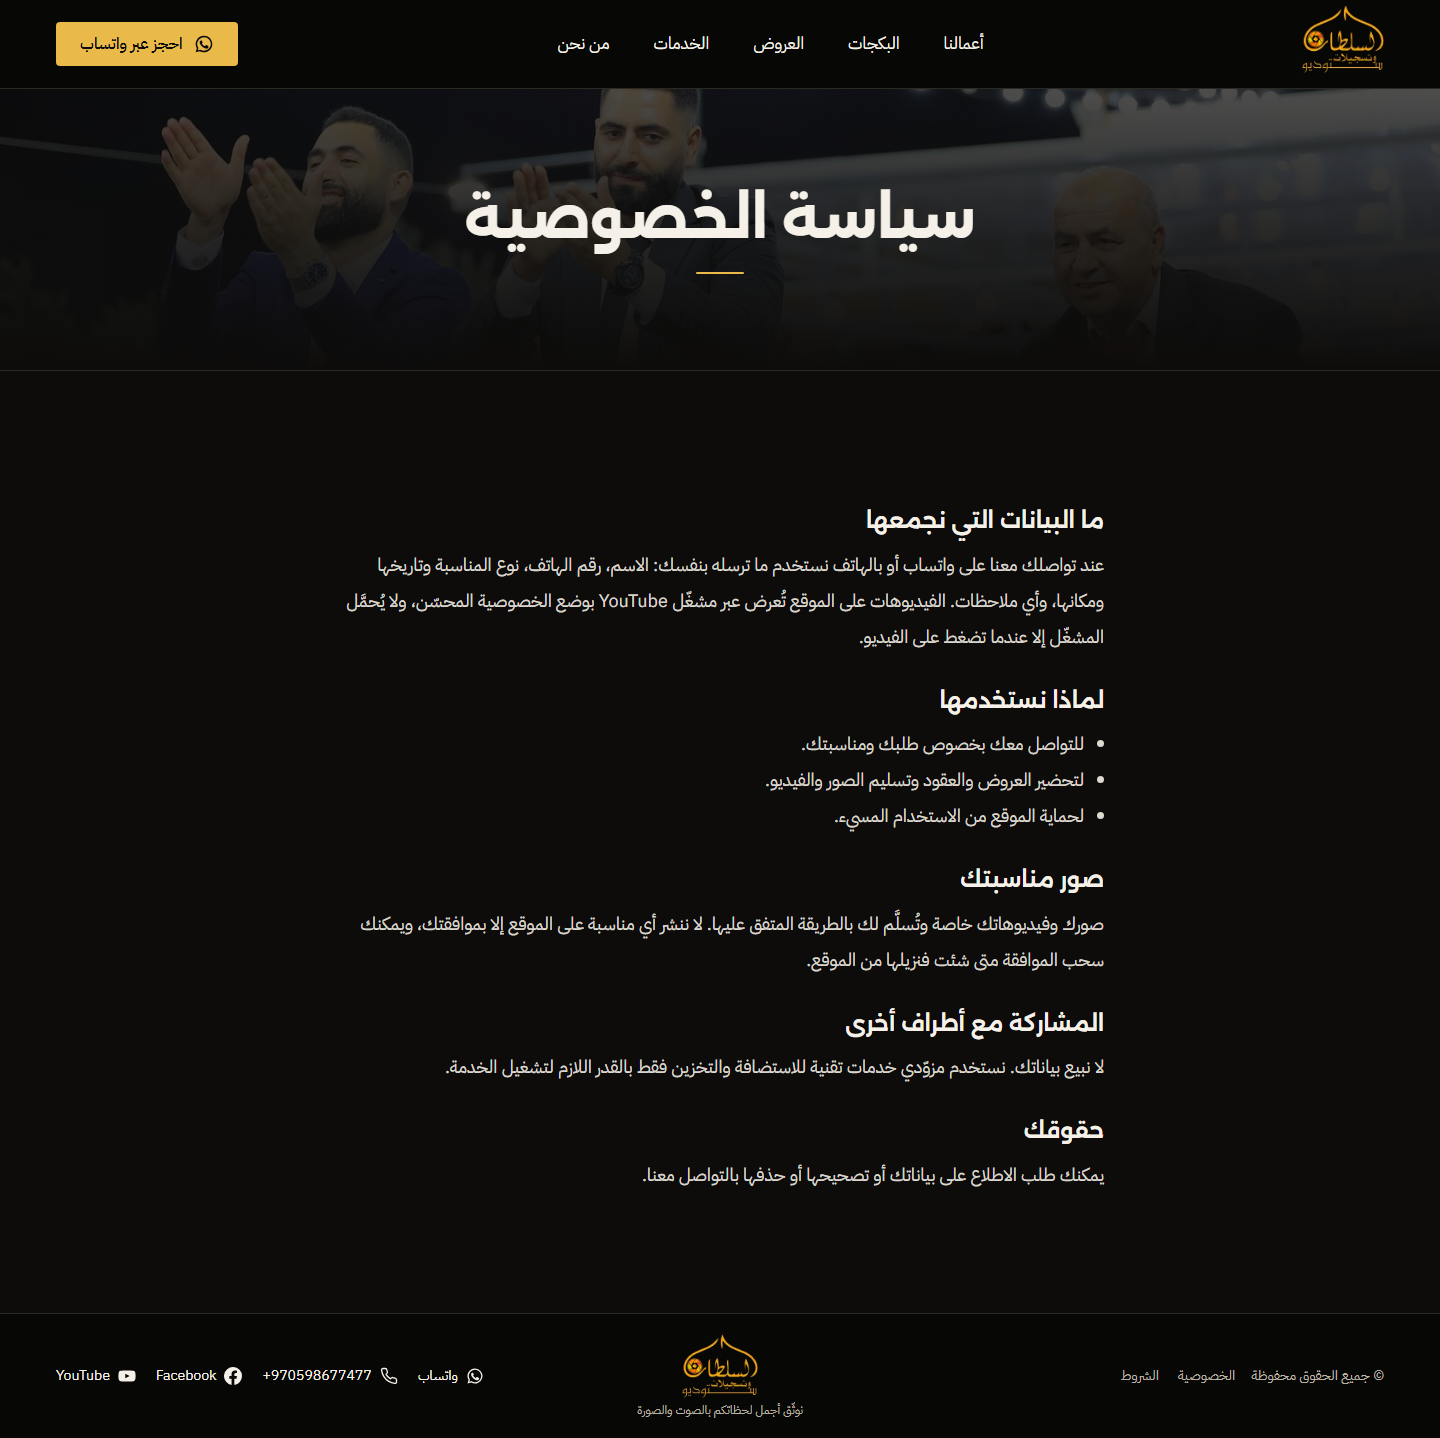
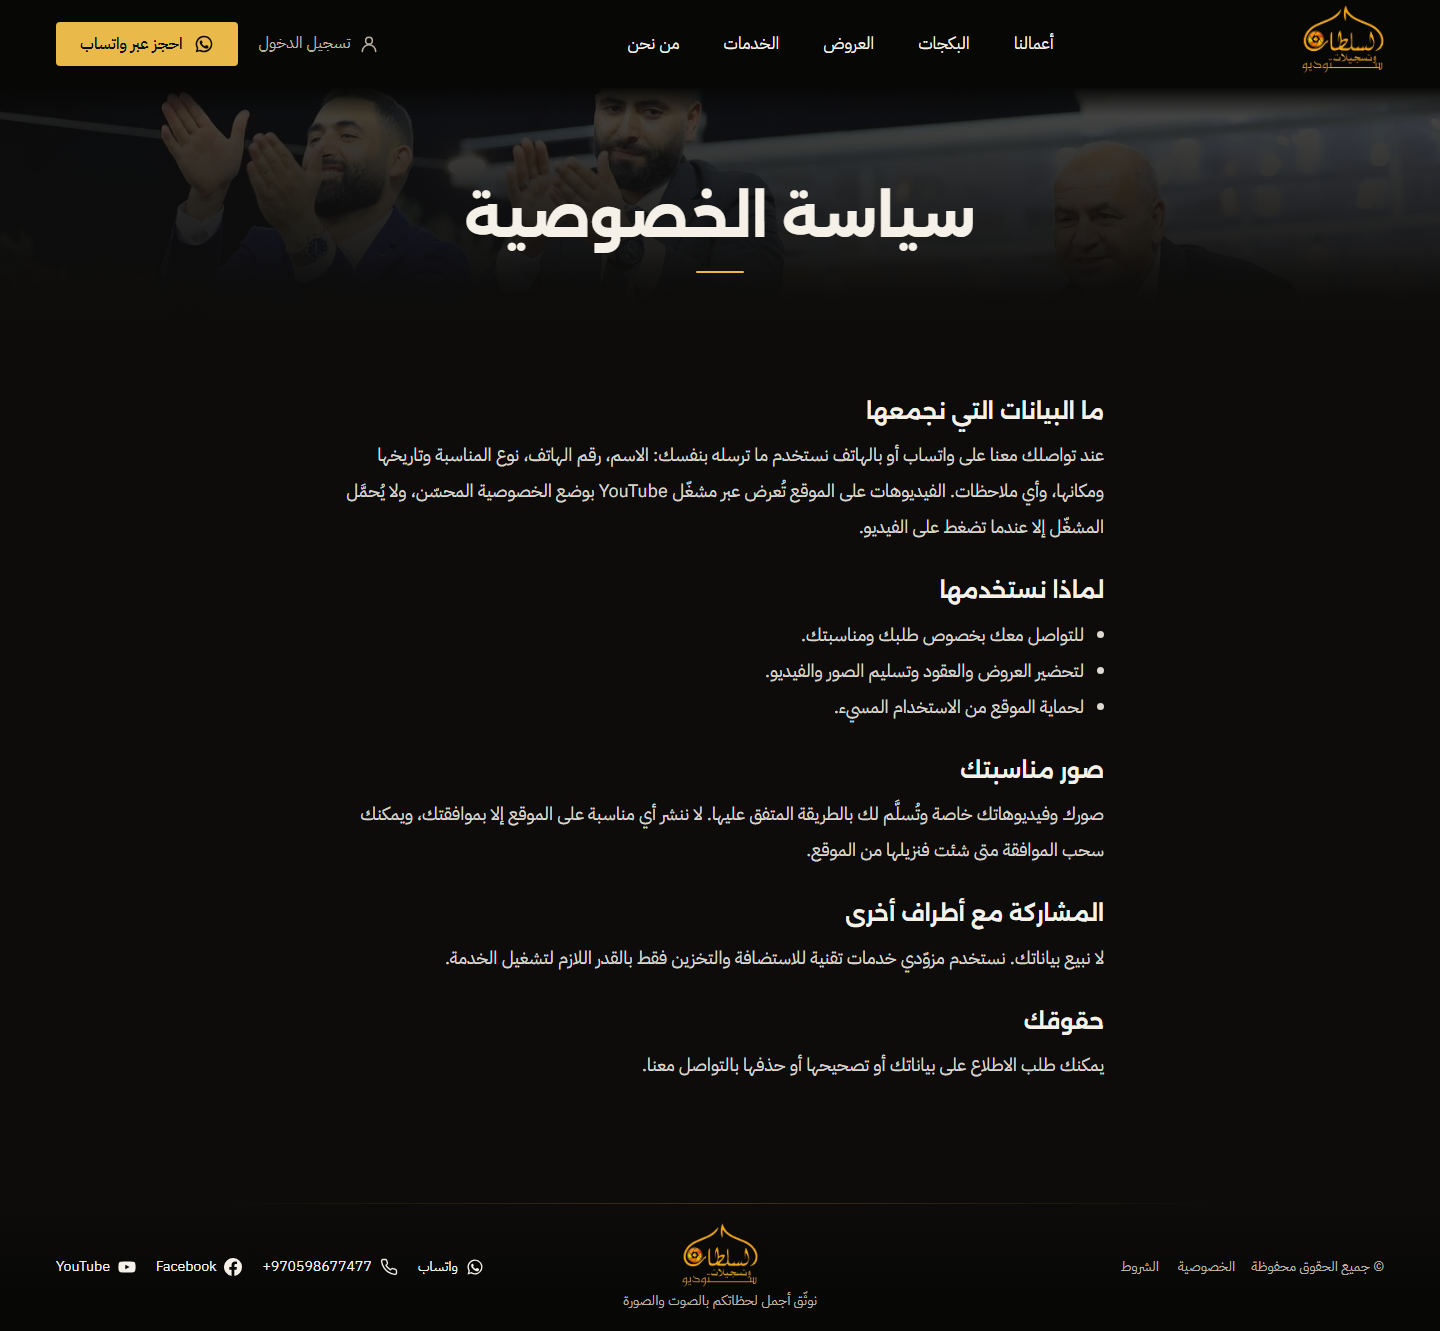
Release record for PR #1 merge: docs/redesign-release.md (fixes, verification counts, skips, limits, rollback), live screenshots; live-mobile: allow the single plain /login menu entry (owner request)

diff --git a/web/tests/e2e/live-mobile.spec.ts b/web/tests/e2e/live-mobile.spec.ts
@@ -24,7 +24,9 @@ test("home on a phone: self-hosted promo plays in-page, WhatsApp booking, menu w
   const dialog = page.getByRole("dialog");
   await expect(dialog).toBeVisible();
   await expect(dialog.getByText("بوابة العميل")).toHaveCount(0);
-  await expect(dialog.locator('a[href^="/portal"], a[href^="/track"], a[href^="/login"]')).toHaveCount(0);
+  await expect(dialog.locator('a[href^="/portal"], a[href^="/track"]')).toHaveCount(0);
+  // «تسجيل الدخول» (owner request): exactly one plain /login entry in the menu — never a deep link into admin/portal.
+  expect(await dialog.locator('a[href^="/login"]').evaluateAll((as) => as.map((a) => a.getAttribute("href")))).toEqual(["/login"]);
   await page.keyboard.press("Escape");
 
   // Promo (self-hosted, /promo/*.mp4): no <video> before tap; tap opens the dialog with the portrait cut and it plays.

diff --git a/docs/redesign-release.md b/docs/redesign-release.md
@@ -1,5 +1,80 @@
 # إعادة تصميم الموقع العام — الاتجاه الأسود السينمائي
 
+> **آخر إصدار: دمج PR #1 في `master` ونشره (2026-10-19)**. القسم التالي هو المرجع الحالي. باقي الأقسام تحته سجلّ الجولات السابقة.
+
+## إصدار الدمج — PR #1 (2026-10-19)
+
+**أهم المعرّفات**
+- **commit النهائي المُختبَر:** `93fbeca` (فرع `redesign/cinematic`).
+- **merge commit:** `f86e48e` في `master`. شجرته مطابقة تمامًا لشجرة `93fbeca` (`02991606e4`).
+- **النشر:** `dpl_H525Lf1g3pVXV9oN6GJVEfeffv3h`، على الرابط `sultan-records-dq18sku3x-heinsports45-1606.vercel.app`، والمخصّص له https://sultan-records.vercel.app (نفس المشروع ونفس الرابط).
+- **إعدادات Vercel التي تأكّدنا منها:** المشروع `sultan-records`، و Root Directory = `web`، و Next.js، و `npm ci`. المشروع **غير مربوط بـ GitHub**، لذلك لا ينشر الدمج تلقائيًا، ونُشر يدويًا من `master` بالأمر `npx vercel deploy --prod`.
+- **قاعدة البيانات:** Supabase `dyuixzxmmeiypvawzmty`.
+  1. أُخذت نسخة احتياطية كاملة قبل الـ migration، بتاريخ 2026-10-19T16:59Z. النتيجة COMPLETE: 434/434 ملفًا، و128/128 صورة أصلية، و0 أخطاء.
+  2. بعدها طُبّقت migration رقم **0023** (إضافية فقط، ولا تغيّر أي بيانات)، فأصبح عدد الـ migrations المسجّلة على البعيد 23 = المحلي.
+  3. التحقق بعد التطبيق: `staging-verify` نجح **69/69**.
+  4. أُعيد نشر edge function `storage-cleanup`.
+
+**الرجوع**
+- **النشر:** آخر نشر سليم قبل هذا الإصدار هو `dpl_J4qopXHGfE8Q6rgbEwu8ttDj86q6` (`sultan-records-lu0z9lw54`، commit `49bf73d`). للرجوع إليه: `npx vercel rollback dpl_J4qopXHGfE8Q6rgbEwu8ttDj86q6`، أو من Vercel ← Deployments ← Promote.
+- **قاعدة البيانات:** الرجوع بالنشر **لا يرجع** الـ migrations. migration 0023 إضافية ومتوافقة مع الإصدار السابق (تضيف triggers للتدقيق ودالة للمالك فقط)، فلا يلزم إرجاعها. إن لزم ذلك، فهذه migration عكسية يدوية: ترجع `app.audit_trigger` لنسختها في 0021، وتعيد trigger `events` إلى `after update`، وتحذف triggers `media_assets` و`reviews` و`customers`، وتحذف `admin_revoke_user_sessions`.
+- **Git:** `git revert -m 1 f86e48e` على `master`، ثم النشر.
+
+### المشاكل التي اكتُشفت في مراجعة الـ PR الكاملة وكيف أُصلحت
+شملت المراجعة الفرق كاملًا مع `master`: المصادقة والصلاحيات، وقاعدة البيانات والتخزين والوسائط، والمحتوى وSEO والأسرار، والـ PWA. بعدها أُضيف اختبار لكل خلل مهم.
+
+| الأثر | المشكلة | الإصلاح | الاختبار |
+|---|---|---|---|
+| متوسط | service worker الخاص بالموقع القديم (`sultan-v27`) يخزّن الصور cache-first بلا انتهاء، فيُفشل سحب الموافقة عند الزوار العائدين. هذا ينطبق فقط إذا كان ذلك الزائر قد ثبّت الـ worker على نفس الأصل؛ مشروع Vercel الحالي أُنشئ حديثًا، فالخطر منخفض | `web/public/sw.js` يعمل كمفتاح إيقاف: يمسح كل الكاشات ويلغي تسجيل نفسه، ويُرسَل مع `Cache-Control: no-store` | `pwa.spec` P3 |
+| متوسط | تعديل مناسبة منشورة لا يظهر في صفحتها العامة حتى ينتهي الكاش | `updateTag("projects"/"media")` في `updateEvent` و`cleanupPublic` | `admin-public-cache.spec`، وتأكّدنا أنه **يفشل بدون الإصلاح** |
+| متوسط | سجل التدقيق لا يسجّل إنشاء أو حذف المناسبات، ولا تغيير ظهور الوسائط، ولا اعتماد المراجعات، ولا حذف العملاء | migration 0023. يُسجَّل التغيير الفعلي فقط (`WHEN distinct`)، وسجل العميل يحفظ المعرّف فقط بدون الملاحظات | `supabase/tests/98_audit_sessions.sql` (14 فحصًا) |
+| منخفض–متوسط | تعيين كلمة السر من المالك، أو تغييرها، أو إعادة تعيينها، لا ينهي جلسات الحساب الأخرى | `admin_revoke_user_sessions` للمالك فقط ومسجّل في التدقيق، و`signOut({scope:"others"})` | pgTAP، و`admin-accounts` A4 |
+| منخفض–متوسط | حذف لوغو يرسل مهمة تنظيف لـ `site-media` يرفضها العامل دائمًا، فيبقى الملف وتتراكم مهام ميتة | السماح بـ `site-media` بنمط `brand/<uuid>/logo.<ext>` فقط، في التطبيق وفي edge function | `cleanup.test.ts`، ويتأكد أيضًا من تطابق النمط في النسختين |
+| منخفض | روابط البريد (الرابط السحري وإعادة التعيين) تُبنى من ترويسة `Host` التي يمكن تزويرها | صارت تُبنى من `NEXT_PUBLIC_SITE_URL` فقط. على الإنتاج قيمته `https://sultan-records.vercel.app` (نفس عنوان الـ sitemap) | `auth-links` (2/2) |
+| منخفض | `refreshAlbum` يمكن استدعاؤه بدون تسجيل دخول، فيُفرّغ كاش الألبومات | `guard(ADMIN_ROLES)` | — |
+| منخفض | `/a/<logo>` يرسل `Cache-Control: public` | `private, max-age=300` | `cms-public` |
+| واجهة | شريط التصنيفات على الجوال لا يُظهر التصنيف المختار بعد الرجوع للخلف أو الأمام أو تغيير حجم الشاشة، لأن `useEffect([])` يعمل مرة واحدة فقط | مراقبة `aria-current` بـ MutationObserver وإعادة الإظهار عند تغيير الحجم. يمرّر الشريط فقط، فلا تقفز الصفحة ولا ينتقل التركيز | `chip-scroller.spec` (5) |
+| واجهة | الهيرو بلا أي زر عندما لا يوجد رقم واتساب ولا أعمال | «تواصل معنا» يفتح `/contact`، بنفس سلوك `WhatsAppCta` | `empty-states` بوضع الـ stub |
+| اختبارات | تعبير نمطي معطوب (`site_urls*`) جعل اختبارَي روابط البريد يُتخطّيان **دائمًا** | أُصلح | عادا يعملان: 2/2 |
+| اختبارات | اختبارات تعتمد على ترتيب التشغيل أو على تنظيف يدوي | `npm run e2e:reset` يعيد البيئة المحلية فقط، واختبار البوابة يصفّر بياناته بنفسه، واختبار سحب الموافقة يعدّ ما أنشأه هو فقط، واختبار pgTAP للبكجات محصور بالـ fixtures الخاصة به | التشغيل الكامل من بيئة نظيفة نجح بالكامل |
+| تقرير | خلط وحدات px وpt في `design-audit.md` | أُضيفت ملاحظة الوحدات: على iOS، 1 CSS px = 1pt بالتكبير الافتراضي | — |
+
+**تقييم الألبوم:** على عرض 390 تبدأ أول صورة عند 569px، وهذا لم يحقق هدف 520px. السبب أن العنوان يأخذ 3 أسطر بخط كبير. لم نصغّره، لأن ذلك يضرّ بقراءته، وصورتان كاملتان تظهران في أول شاشة. التقييم البصري: مقبول.
+
+### الفحوصات الفعلية (على الكود المدموج)
+| الفحص | النتيجة |
+|---|---|
+| TypeScript (`tsc --noEmit`) | 0 أخطاء |
+| ESLint | 0 أخطاء، و9 تحذيرات (متغيرات غير مستخدمة في سكربتات تحقق قديمة وملف محلي، ليست في كود الموقع) |
+| Vitest | **70/70** |
+| Production build | ناجح |
+| pgTAP (`supabase test db`) | **383/383** على بيئة نظيفة، ومع البيانات الكاملة |
+| Playwright محليًا: كل ملفات الاختبار عدا `live-*`، والمشروعان chromium وmobile، بعد `e2e:reset` | **210 نجح / 0 فشل / 10 متخطّاة / 0 لم يعمل** |
+| الاختبارات المتخطّاة التي تحتاج بيئة خاصة، شُغّلت منفصلة | روابط البريد بتعديل `site_url` المؤقت: **2/2**. حالة الموقع الفارغ بالـ stub: **3/3** |
+| الموقع الحي بعد النشر: `live-redesign-check` | **8/8** (التصنيفات، YouTube عند الطلب فقط، صور كاملة، Esc واستعادة التركيز، رسالة واتساب لكل بكج من الـ 10، 5 عروض بلا تمرير أفقي، 404) |
+| الموقع الحي بعد النشر: اختبارات قراءة فقط (`site-intro` و`chip-scroller` و`album-actions` و`pwa` و`live-mobile`) | **20/20**، بعد تحديث توقّع قديم في `live-mobile` كان يمنع رابط `/login` في القائمة، والزر مطلوب من المالك |
+| الموقع الحي: فحوصات HTTP | `/login` 200. `/admin` و`/admin/users` و`/portal` تعيد 307 إلى `/login?next=…`، وكلها `private, no-store`. `/sw.js` `no-store`. الرقم +970598677477 و`wa.me/970598677477` ظاهران |
+
+**أسباب التخطّي الثابتة (5):**
+- 4 اختبارات لنموذج الحجز والتتبّع، وهي ميزة أُلغيت لأن الحجز صار عبر واتساب فقط.
+- اختبار واحد لحالة «لا ألبومات منشورة» لا يعمل لأن شرطه غير متحقق، فالألبومات منشورة. حالة الموقع الفارغ تغطيها اختبارات الـ stub.
+
+**ما لم يُفحص، وحدود التغطية:**
+- لم يُسجَّل دخول فعلي بحساب حقيقي على الإنتاج، لأننا لا نستعمل كلمات سر حقيقية. الدخول وMFA وصلاحيات الإدارة مغطّاة محليًا بحسابات التطوير، وعلى الإنتاج فُحصت التحويلات والترويسات فقط.
+- لم يُجرَّب التثبيت على هاتف حقيقي. الـ manifests والأيقونات والـ service worker مفحوصة آليًا.
+- مهام تنظيف `site-media` الميتة **الموجودة سابقًا** على الإنتاج (إن وُجدت) لم يُعَد إدخالها للطابور، لأن ذلك يحذف ملفات فعلية. صار العامل يقبلها، وإعادتها قرار للمالك.
+- قراءة المالية متاحة لدور `admin` وليس للمالك وحده (`payments_read` و`expenses_read`). هذا سلوك قائم منذ البداية، والكتابة للمالك فقط. إن كان المطلوب أن تكون المالية للمالك وحده، فهذا يحتاج قرارًا وmigration لاحقة.
+- المناسبات المحذوفة إلى سلة المهملات تحتفظ بنسخها العامة حتى الحذف النهائي، مع أن الوصول العام يُسحب فورًا. هذا مقصود حتى يمكن استرجاعها.
+
+**ملاحظة بصرية بعد النشر (لم تُصلح):** على الإنتاج يظهر تبويب ثالث «البروموهات» في «أعمالنا» على الجوال، وينزل إلى سطر ثانٍ داخل مجموعة التبويبات. هذا شكلي وموجود قبل هذا الإصدار، ولا يظهر محليًا لعدم وجود برومو هناك. المقترح لاحقًا: تصغير التبويبات أو جعلها 3 أعمدة متساوية على الجوال.
+
+### اللقطات (من الموقع الحي بعد النشر)
+`screenshots/release/`: الرئيسية، والأعمال، والألبوم، والبكجات، والدخول. كلها بنسختي `desktop` (1440) و`mobile` (390). لقطات مراجعة التصميم قبل وبعد في `screenshots/design-audit/fixes/`.
+
+---
+
+## سجلّ الجولة السابقة (إعادة التصميم)
+
 - **الرابط:** https://sultan-records.vercel.app (مشروع Vercel `sultan-records`، نفس الرابط)
 - **النشر:** `sultan-records-p4i8jfdp0-heinsports45-1606.vercel.app` بتاريخ 2026-10-19
 - **الفرع:** `redesign/cinematic`
